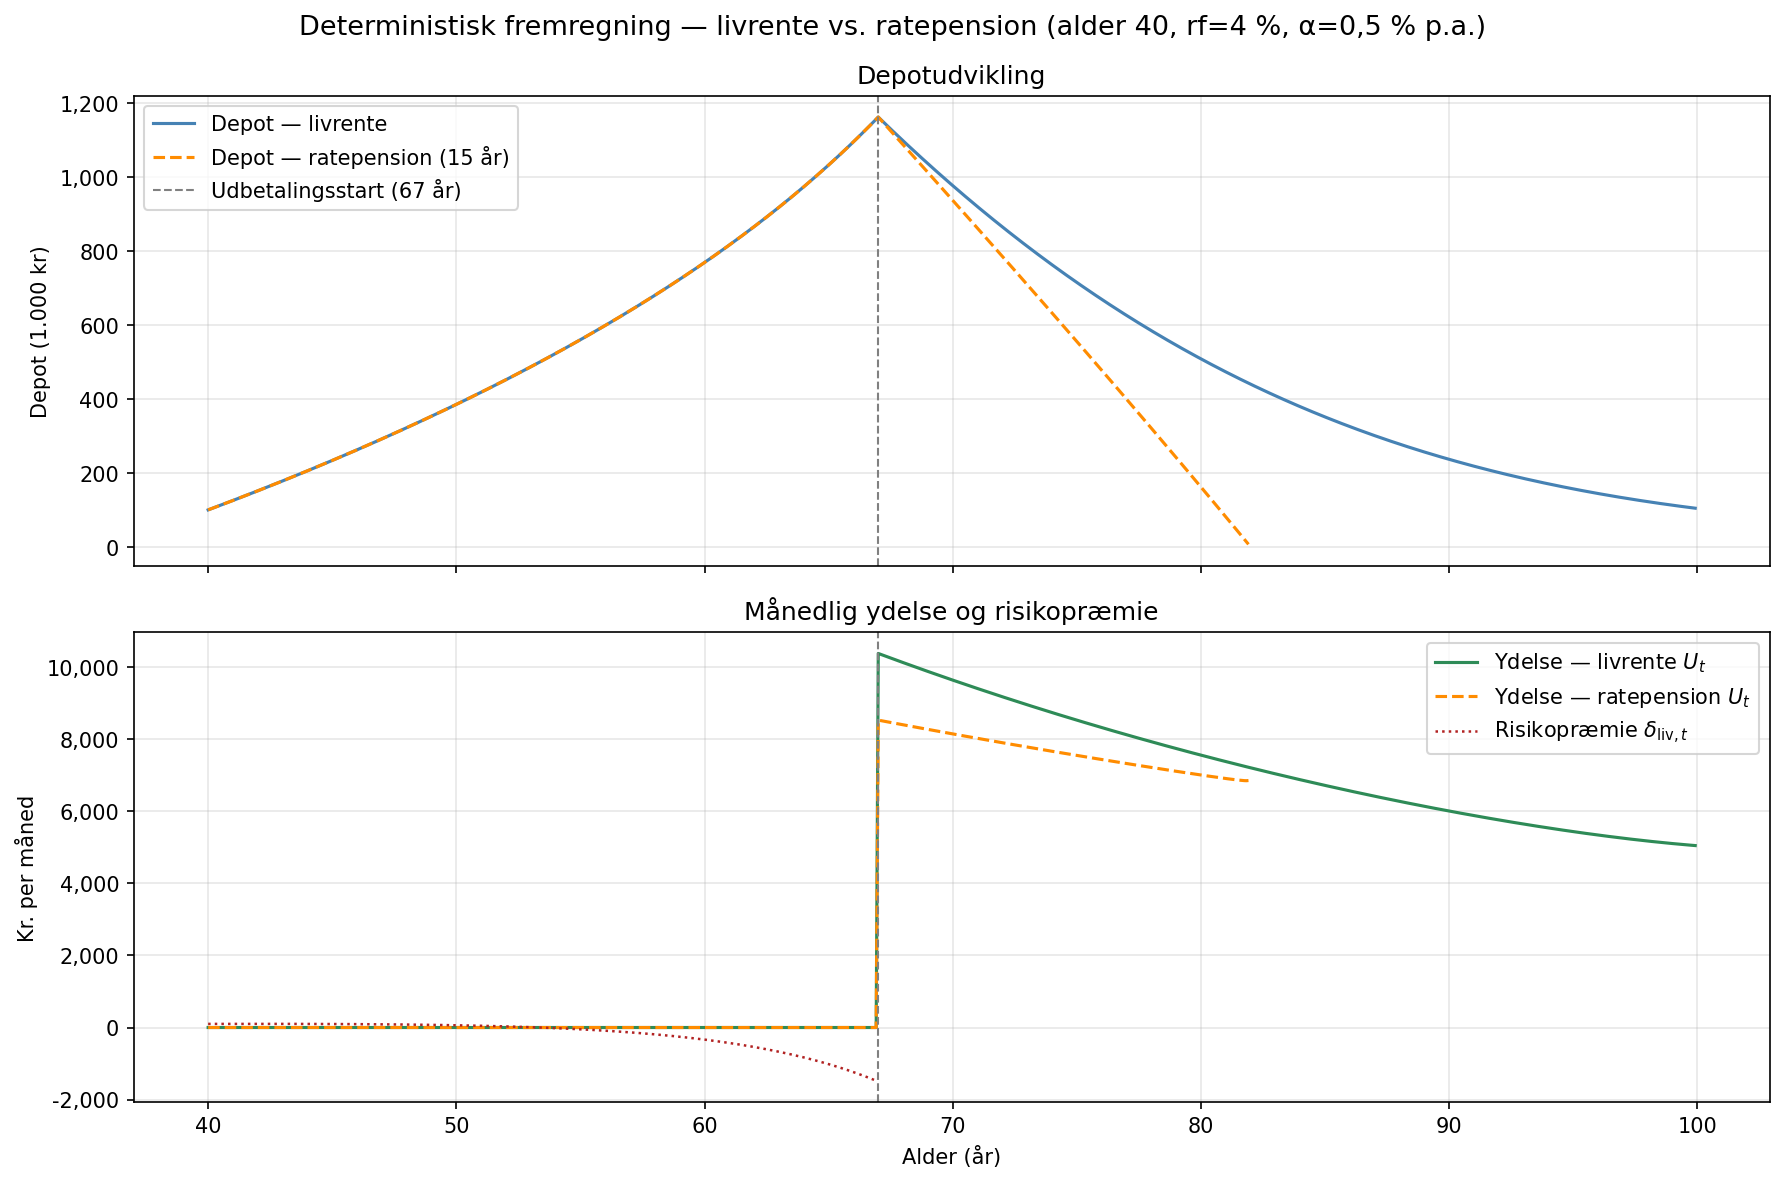
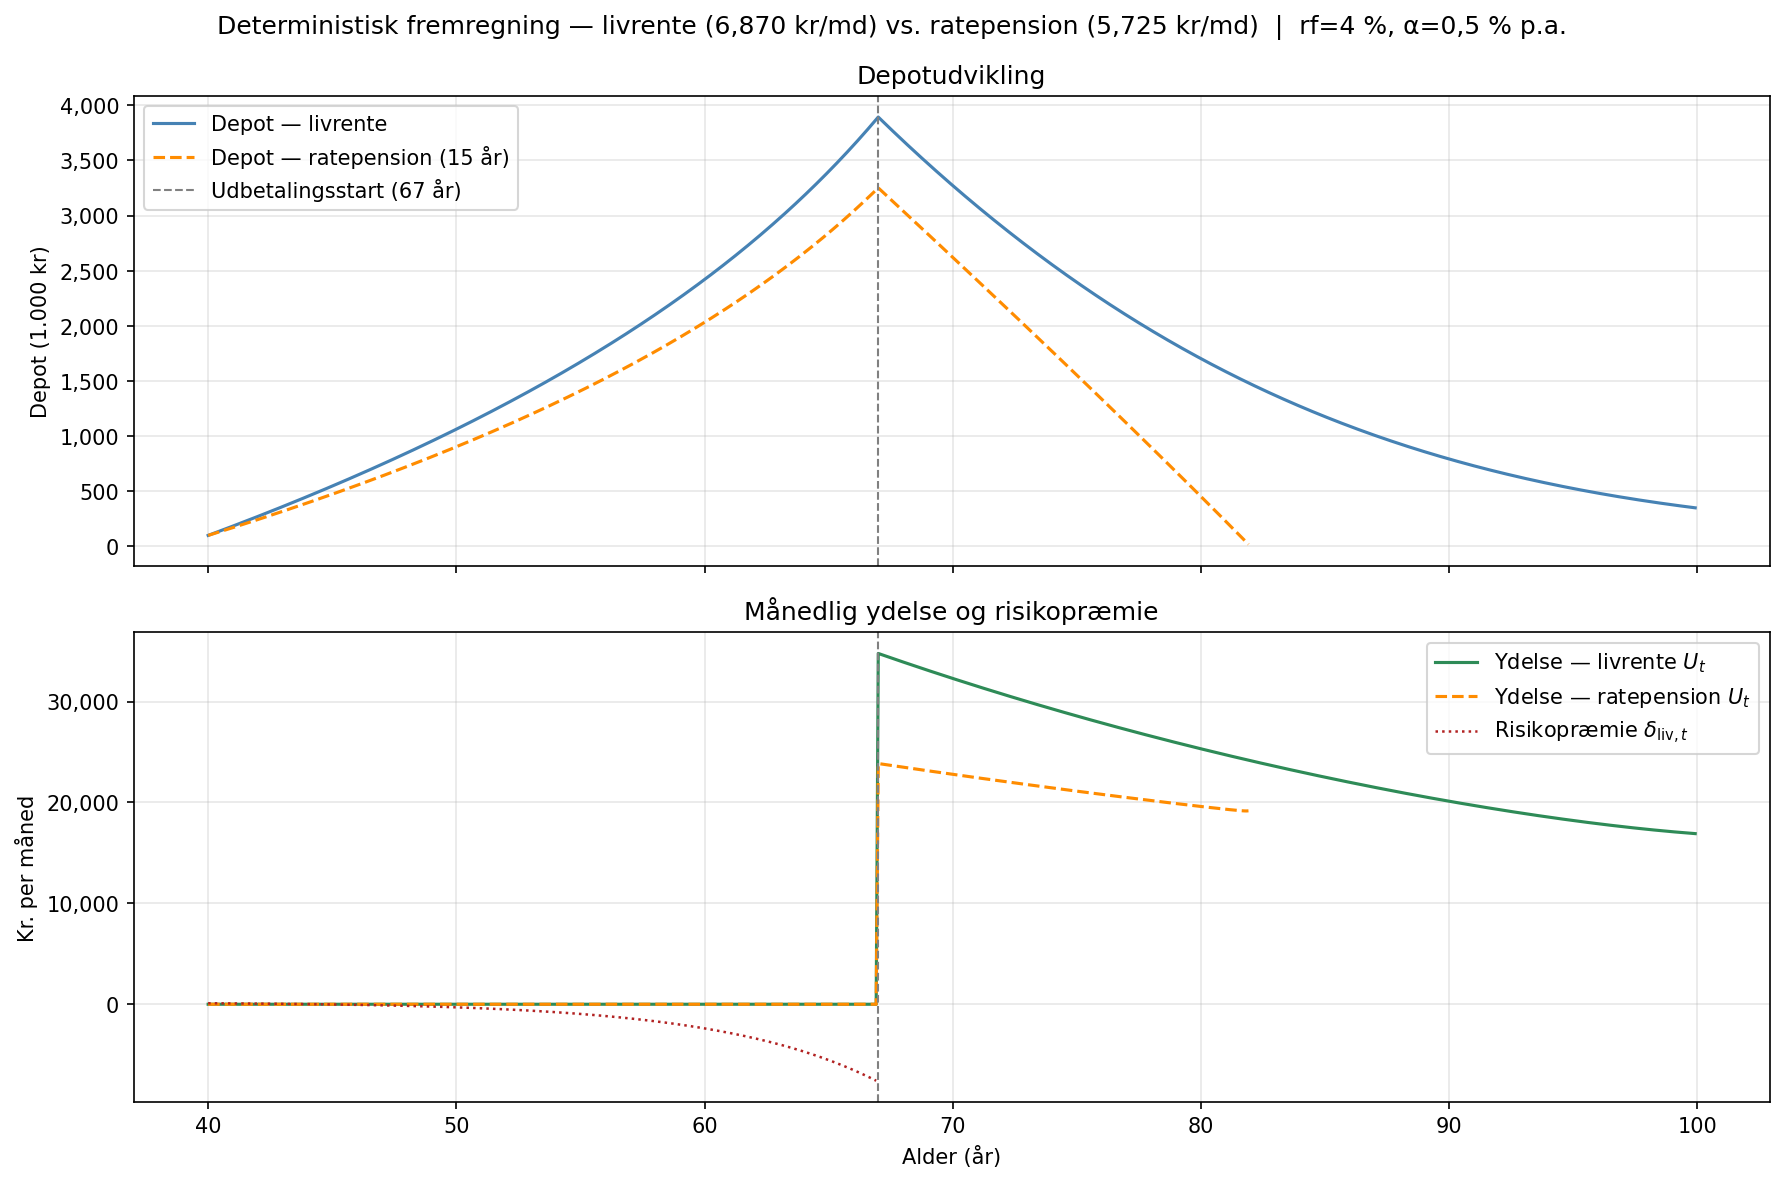
Differentiér præmier: ratepension = maks. loft, livrente = loft × 1,2
Ratepension: 68.700 kr/år ÷ 12 = 5.725 kr/md (PBL § 16 maks.)
Livrente: 5.725 × 1,20 = 6.870 kr/md

https://claude.ai/code/session_01L83JbxfPiBLRpJc6sFFkAT

diff --git a/visualisering.py b/visualisering.py
@@ -2,9 +2,9 @@
 visualisering.py — deterministisk fremregning og depot-visualisering.
 
 Viser to produkter til sammenligning:
-  1. Livrente:     alder 40, depot 100.000 kr, præmie 2.000 kr/md.
+  1. Livrente:     alder 40, depot 100.000 kr, præmie = maks. rateloft × 1,2.
                    Opsparingsperiode til 67 år, livrente-udbetaling til 100 år.
-  2. Ratepension:  alder 40, depot 100.000 kr, præmie 2.000 kr/md.
+  2. Ratepension:  alder 40, depot 100.000 kr, præmie = maks. rateloft (PBL § 16).
                    Opsparingsperiode til 67 år, rateudbetaling over 15 år (67–82 år).
 """
 
@@ -15,7 +15,7 @@ import matplotlib.ticker as mticker
 
 from pension.biometrics import BiometricModel
 from pension.market import MarketAssumptions
-from pension.policy import Policy, ProductType
+from pension.policy import Policy, ProductType, RATEPENSION_INDBETALINGSLOFT
 from pension.projection import projicér
 from pension.output import trin_til_dataframe
 
@@ -27,12 +27,16 @@ biometri = BiometricModel(A=0.0005, B=0.00007585775, c=1.09144)
 # Marked: 4 % rente, deterministisk (ε=0)
 marked = MarketAssumptions(rf=0.04, volatilitet=0.15)
 
+# Præmier: ratepension = maks. loft, livrente = 20 % højere
+praemie_rate = RATEPENSION_INDBETALINGSLOFT / 12          # 5.725 kr/md
+praemie_livrente = praemie_rate * 1.20                    # 6.870 kr/md
+
 # Policy 1: Livrente, alder 40, opsparingsstart
 police_livrente = Policy(
     alder=40.0,
     depot=100_000.0,
     doedsfaldssum=500_000.0,
-    praemie=2_000.0,
+    praemie=praemie_livrente,
     omkostningspct=0.005 / 12.0,   # 0,5 % p.a. månedligt fratrukket
     produkt=ProductType.LIVRENTE,
     udbetalingsstart_alder=67.0,
@@ -43,7 +47,7 @@ police_rate = Policy(
     alder=40.0,
     depot=100_000.0,
     doedsfaldssum=500_000.0,
-    praemie=2_000.0,
+    praemie=praemie_rate,
     omkostningspct=0.005 / 12.0,
     produkt=ProductType.RATEPENSION,
     udbetalingsstart_alder=67.0,
@@ -64,8 +68,8 @@ udbet_start = police_livrente.udbetalingsstart_alder
 
 fig, (ax1, ax2) = plt.subplots(2, 1, figsize=(12, 8), sharex=True)
 fig.suptitle(
-    "Deterministisk fremregning — livrente vs. ratepension (alder 40, rf=4 %, α=0,5 % p.a.)",
-    fontsize=13,
+    f"Deterministisk fremregning — livrente ({praemie_livrente:,.0f} kr/md) vs. ratepension ({praemie_rate:,.0f} kr/md)  |  rf=4 %, α=0,5 % p.a.",
+    fontsize=12,
 )
 
 aldre_l = df_livrente["alder"].values
